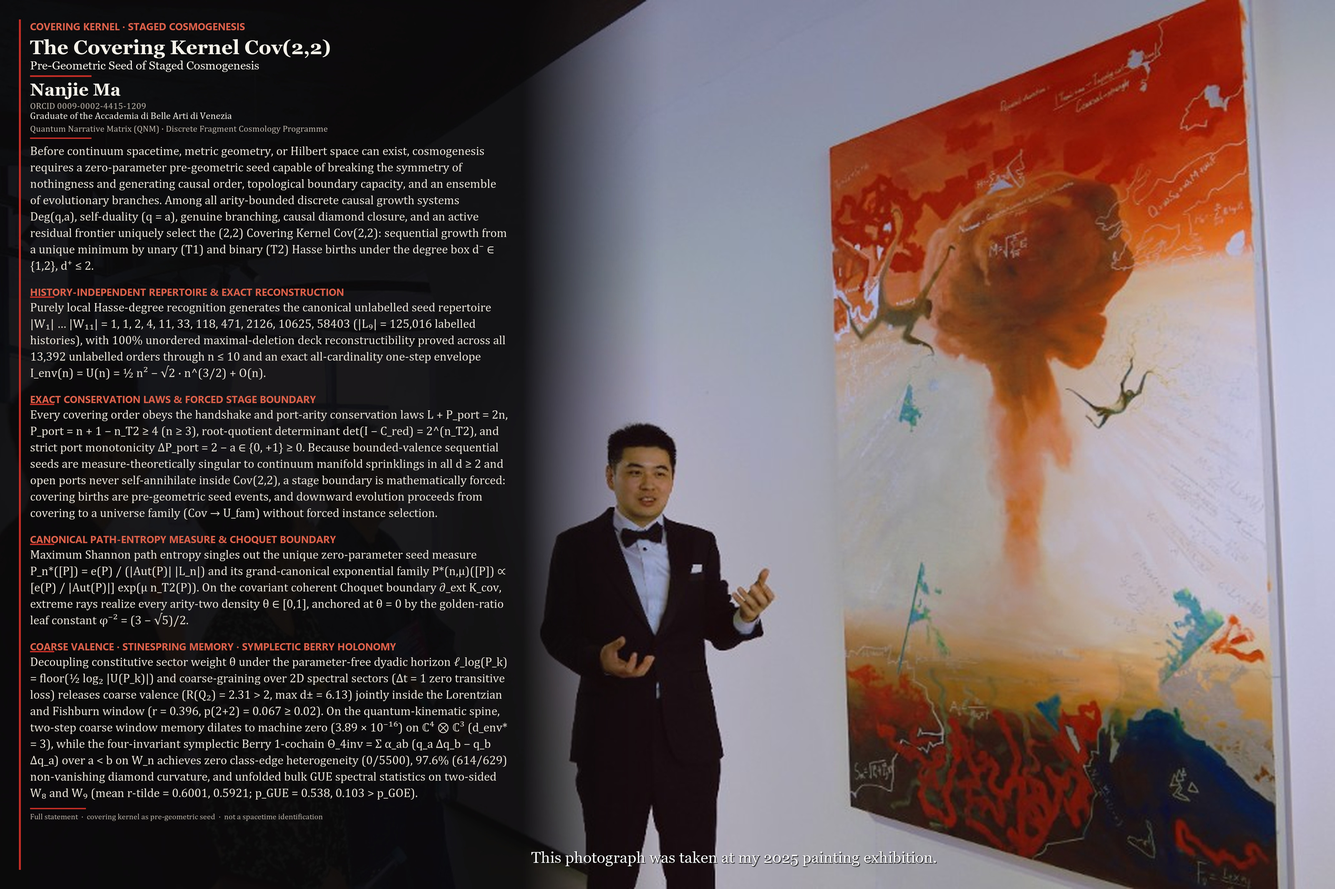
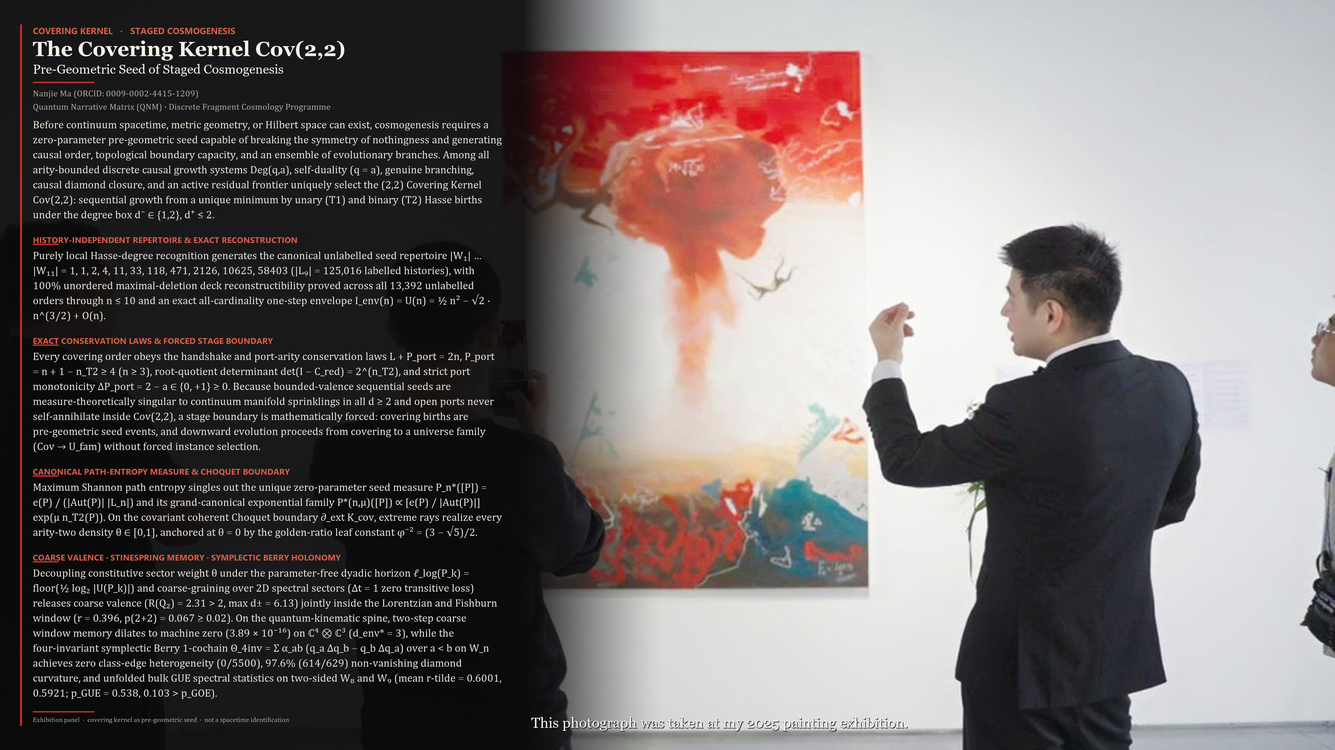
Use the audience-facing exhibition plate for the long covering-kernel statement.
Add the 2025 exhibition photograph credit. Keep the face-forward plate for the eight cores.

diff --git a/covering-kernel-exhibition-2025-en.html b/covering-kernel-exhibition-2025-en.html
@@ -35,7 +35,7 @@ footer{margin-top:36px;padding-top:14px;border-top:1px solid #ccc;font-size:0.82
 <p class="lead">
   Exhibition plates · 24 October 2026 · Nanjie Ma ·
   <a href="https://orcid.org/0009-0002-4415-1209">ORCID 0009-0002-4415-1209</a><br>
-  <span class="small">About / Work subpage. Two public overlay plates on a 2025 painting-exhibition photograph. Not a homepage hero. Not a ranking. Not a breakthrough notice. Not cosmogenesis payment.</span>
+  <span class="small">About / Work subpage. Two public overlay plates on two 2025 painting-exhibition photographs. Not a homepage hero. Not a ranking. Not a breakthrough notice. Not cosmogenesis payment.</span>
 </p>
 
 <div class="nav">
@@ -49,7 +49,7 @@ footer{margin-top:36px;padding-top:14px;border-top:1px solid #ccc;font-size:0.82
 
 <div class="box box-muted">
 <strong>How to read these plates.</strong>
-The photograph was taken at the artist’s 2025 painting exhibition.
+Both photographs were taken at the artist’s 2025 painting exhibition.
 The left-hand overlay is a public statement of covering-kernel results already on record; it is an illustration of that statement, not a theorem, not a deposit, and not a spacetime identification.
 Mathematics remains on the covering-kernel on-record page and in the Zenodo companions.
 </div>
@@ -64,10 +64,10 @@ Mathematics remains on the covering-kernel on-record page and in the Zenodo comp
 </p>
 
 <figure class="fig">
-  <img src="assets/media/covering-kernel-exhibition-2025-full-statement.jpg" width="3200" height="2133" alt="Nanjie Ma at his 2025 painting exhibition, beside a large painting, with the longer covering-kernel public statement overlaid on the left.">
+  <img src="assets/media/covering-kernel-exhibition-2025-full-statement.jpg" width="3200" height="1800" alt="Audience at Nanjie Ma’s 2025 painting exhibition, facing a large painting, with the longer covering-kernel public statement overlaid on the left.">
 </figure>
 <p class="figcaption">
-  Longer public statement on the same photograph.
+  Longer public statement on a second 2025 exhibition photograph, with the audience facing the painting.
   Same boundary: covering births are pre-geometric seed events; they are not identified with spacetime points.
 </p>
 

diff --git a/covering-kernel-exhibition-2025-zh.html b/covering-kernel-exhibition-2025-zh.html
@@ -35,7 +35,7 @@ footer{margin-top:36px;padding-top:14px;border-top:1px solid #ccc;font-size:0.82
 <p class="lead">
   画展图版 · 2026-10-24 · 马楠杰 ·
   <a href="https://orcid.org/0009-0002-4415-1209">ORCID 0009-0002-4415-1209</a><br>
-  <span class="small">About / Work 子页。在 2025 年画展照片上叠的两张对外图。不是首页首屏。不是排名。不是突破通知。不是发生学付款。</span>
+  <span class="small">About / Work 子页。在 2025 年画展两张现场照片上叠的对外图。不是首页首屏。不是排名。不是突破通知。不是发生学付款。</span>
 </p>
 
 <div class="nav">
@@ -49,7 +49,7 @@ footer{margin-top:36px;padding-top:14px;border-top:1px solid #ccc;font-size:0.82
 
 <div class="box box-muted">
 <strong>怎么读这两张图。</strong>
-照片摄于作者 2025 年画展。
+两张照片都摄于作者 2025 年画展。
 左侧叠字是覆盖核已在记录上的结果的对外陈述；是插图，不是定理，不是存款，也不是把覆盖出生等同于时空点。
 数学仍以覆盖核奠基工作页和 Zenodo 伴论文为准。
 </div>
@@ -64,10 +64,10 @@ footer{margin-top:36px;padding-top:14px;border-top:1px solid #ccc;font-size:0.82
 </p>
 
 <figure class="fig">
-  <img src="assets/media/covering-kernel-exhibition-2025-full-statement.jpg" width="3200" height="2133" alt="马楠杰在 2025 年画展现场，画作旁，左侧叠有覆盖核较长公开陈述。">
+  <img src="assets/media/covering-kernel-exhibition-2025-full-statement.jpg" width="3200" height="1800" alt="2025 年画展现场，观众面向画作，左侧叠有覆盖核较长公开陈述。">
 </figure>
 <p class="figcaption">
-  同一张照片上的较长公开陈述。
+  较长公开陈述，用另一张 2025 年画展现场照片（观众面向画作）。
   同一条边界：覆盖出生是前几何种子事件，不与时空点等同。
 </p>
 

diff --git a/index.html b/index.html
@@ -539,11 +539,11 @@
           <article class="visual-card reveal">
             <figure>
               <a href="covering-kernel-exhibition-2025-en.html">
-                <img src="assets/media/covering-kernel-exhibition-2025-full-statement.jpg" alt="Covering-kernel public statement overlaid on a 2025 painting-exhibition photograph" loading="lazy">
+                <img src="assets/media/covering-kernel-exhibition-2025-full-statement.jpg" alt="Covering-kernel public statement overlaid on a 2025 exhibition photograph of the audience facing the painting" loading="lazy">
               </a>
               <figcaption>
                 <h3><a href="covering-kernel-exhibition-2025-en.html">2025 exhibition · full statement</a></h3>
-                <p>Same photograph; longer public statement. Not cosmogenesis payment.</p>
+                <p>Second exhibition photograph; longer public statement. Not cosmogenesis payment.</p>
               </figcaption>
             </figure>
           </article>
